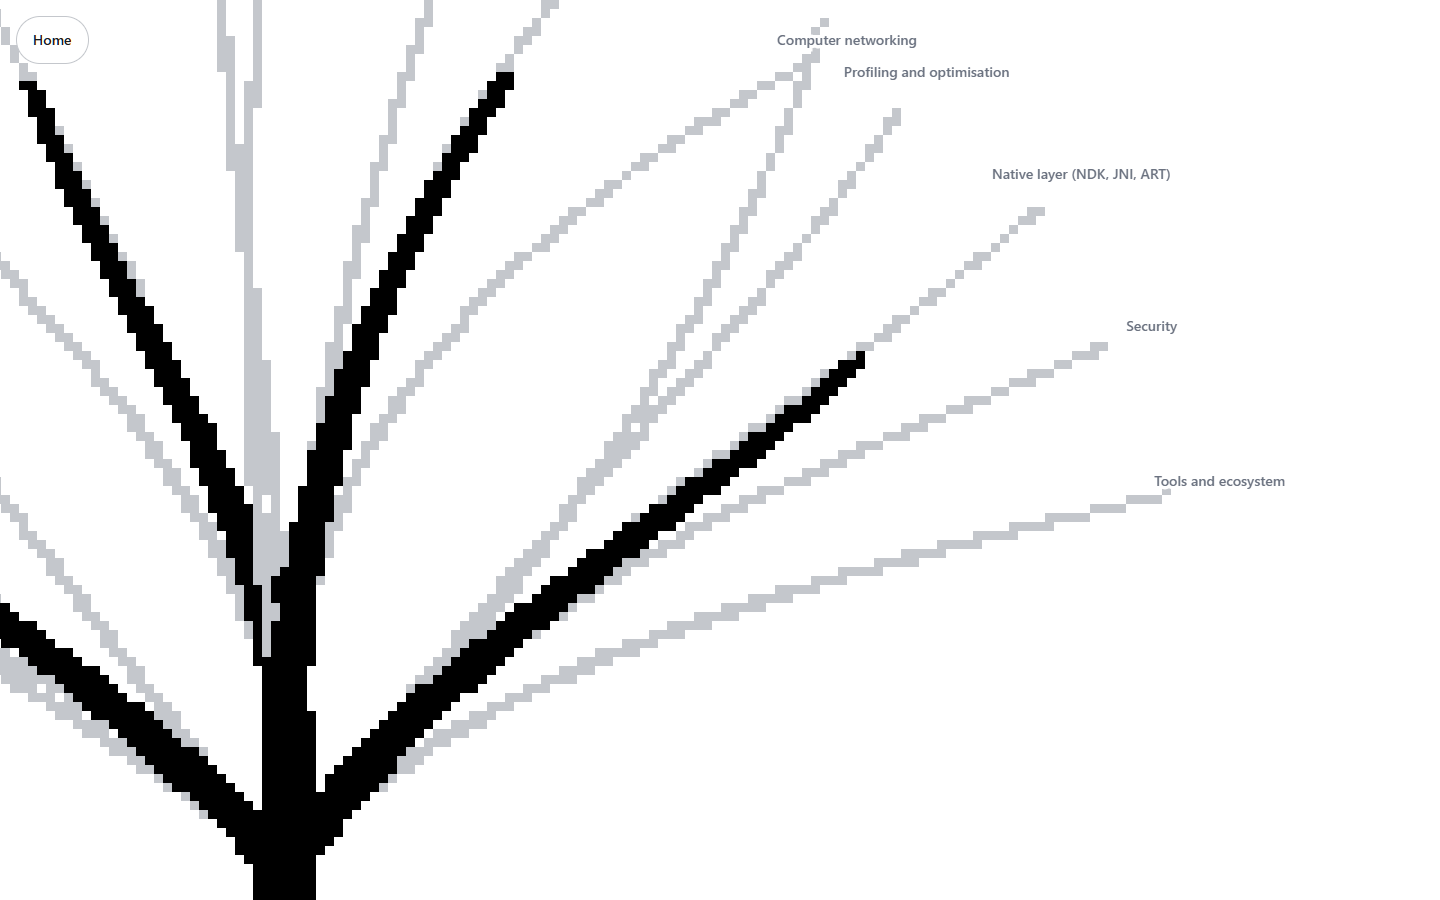
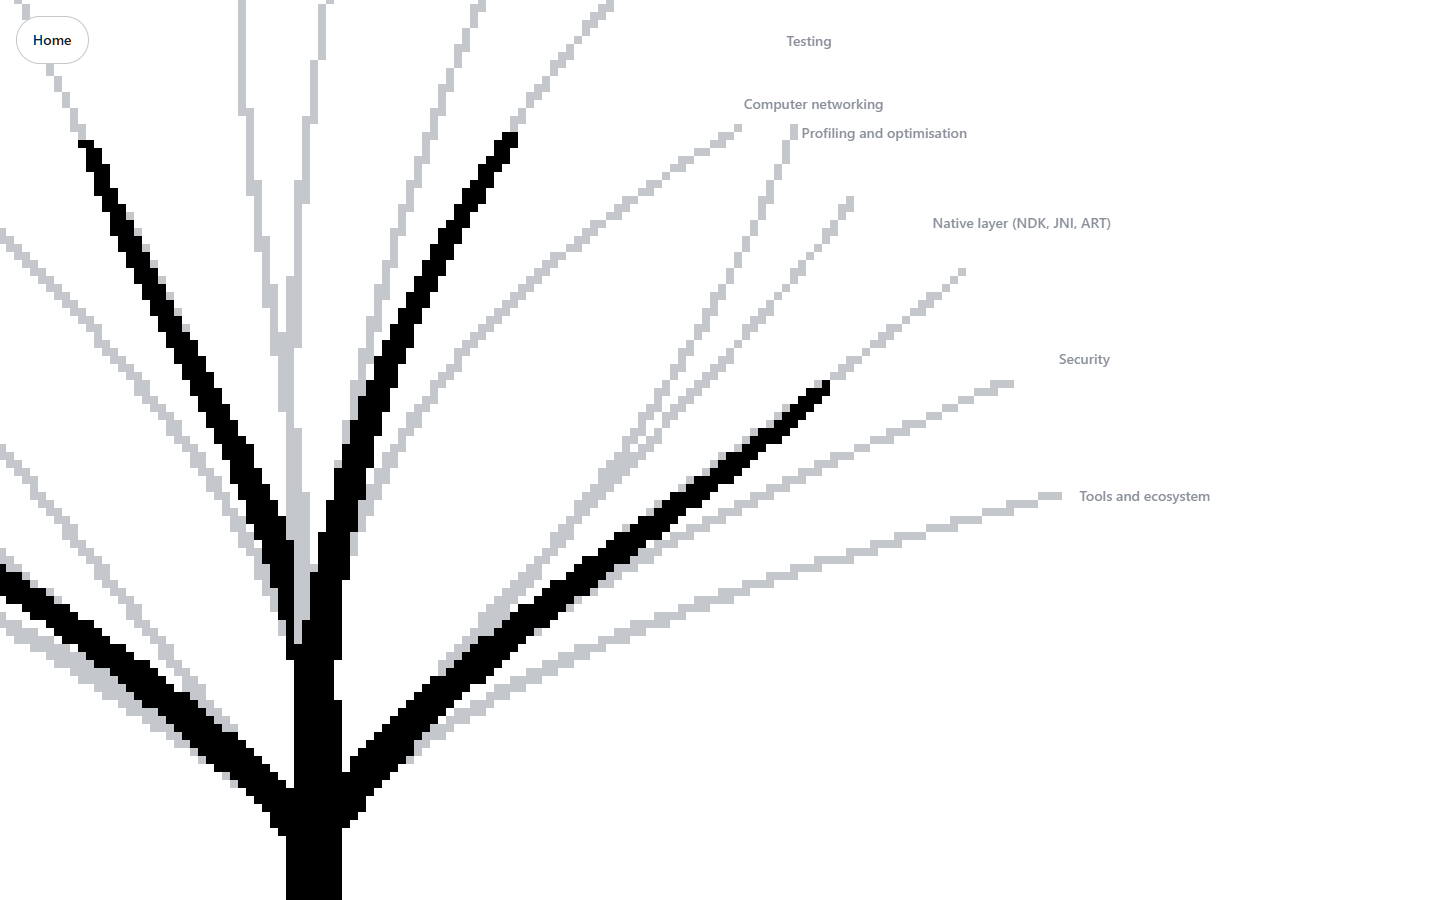
fix: centre bough framing so limbs and labels fit the view

diff --git a/site/src/jsMain/kotlin/dev/kotree/site/tree/camera/Camera.kt b/site/src/jsMain/kotlin/dev/kotree/site/tree/camera/Camera.kt
@@ -63,8 +63,21 @@ fun boundsOf(lines: List<Polyline>): Bounds {
     return Bounds(minX, minY, maxX, maxY)
 }
 
-/** All branches at p = 1 plus the bough centre (docs/03 §2.5). */
-fun boughBounds(bough: BoughGeo): Bounds = boundsOf(listOf(bough.centre) + bough.branches.map { it.full })
+/** All branches at p = 1, the bough centre and every branch label anchor (docs/03 §2.5). */
+fun boughBounds(bough: BoughGeo): Bounds {
+    val limbs = boundsOf(listOf(bough.centre) + bough.branches.map { it.full })
+    var minX = limbs.minX
+    var minY = limbs.minY
+    var maxX = limbs.maxX
+    var maxY = limbs.maxY
+    for (branch in bough.branches) {
+        minX = min(minX, branch.labelAnchor.x)
+        minY = min(minY, branch.labelAnchor.y)
+        maxX = max(maxX, branch.labelAnchor.x)
+        maxY = max(maxY, branch.labelAnchor.y)
+    }
+    return Bounds(minX, minY, maxX, maxY)
+}
 
 /** The limb plus its label anchor, so a fit always keeps the branch title on screen. */
 fun branchBounds(branch: BranchGeo): Bounds {
@@ -134,7 +147,7 @@ class Camera(val bounds: Bounds) {
         return whole / perArt / baseScale(bounds, viewport)
     }
 
-    fun boughTarget(b: BoughGeo): FlyTarget = fit(boughBounds(b), Tokens.Camera.fitMarginBough, Tokens.Zoom.splitEnd)
+    fun boughTarget(b: BoughGeo): FlyTarget = fit(boughBounds(b), Tokens.Camera.fitMarginBough, Tokens.Zoom.boughFitMin)
 
     /**
      * Fit the branch limb plus its label. A branch runs from the trunk fork to its tip, so at zMax the whole

diff --git a/site/src/jsMain/kotlin/dev/kotree/site/Tokens.kt b/site/src/jsMain/kotlin/dev/kotree/site/Tokens.kt
@@ -66,6 +66,8 @@ object Tokens {
         const val splitEnd = 2.4
         const val boughEnter = 1.8
         const val boughLeave = 1.62
+        /** Lowest zoom a bough fit may use: near the split end, so branch labels are readable. */
+        const val boughFitMin = 2.2
         /** Quantised split steps: 0..8 means 9 bitmaps per bough (docs/03 §2.4). */
         const val splitSteps = 8
     }
